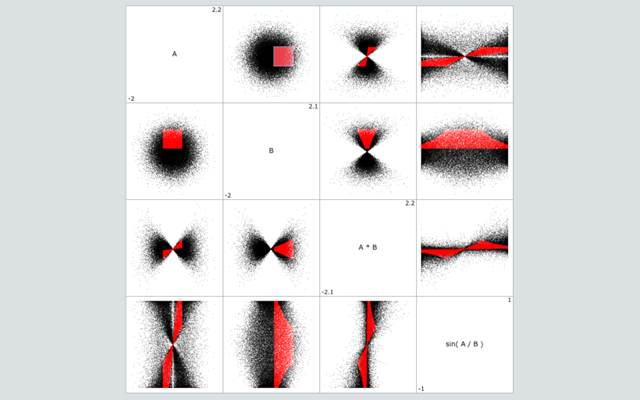
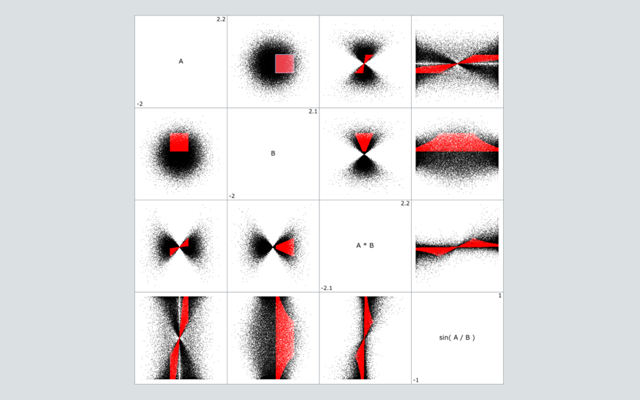
move image

diff --git a/README.md b/README.md
@@ -4,4 +4,4 @@ Brushing is a basic technique of exploratory data analysis, developed in the 197
 
 [This project demonstrates usability and performance optimizations for brushing.](https://hemanrobinson.github.io/fast-brushing/)
 
-[![Brush](src/fast-brushing.png "Fast Brushing")](https://hemanrobinson.github.io/fast-brushing/)
+[![Brush](public/fast-brushing-small.png "Fast Brushing")](https://hemanrobinson.github.io/fast-brushing/)
